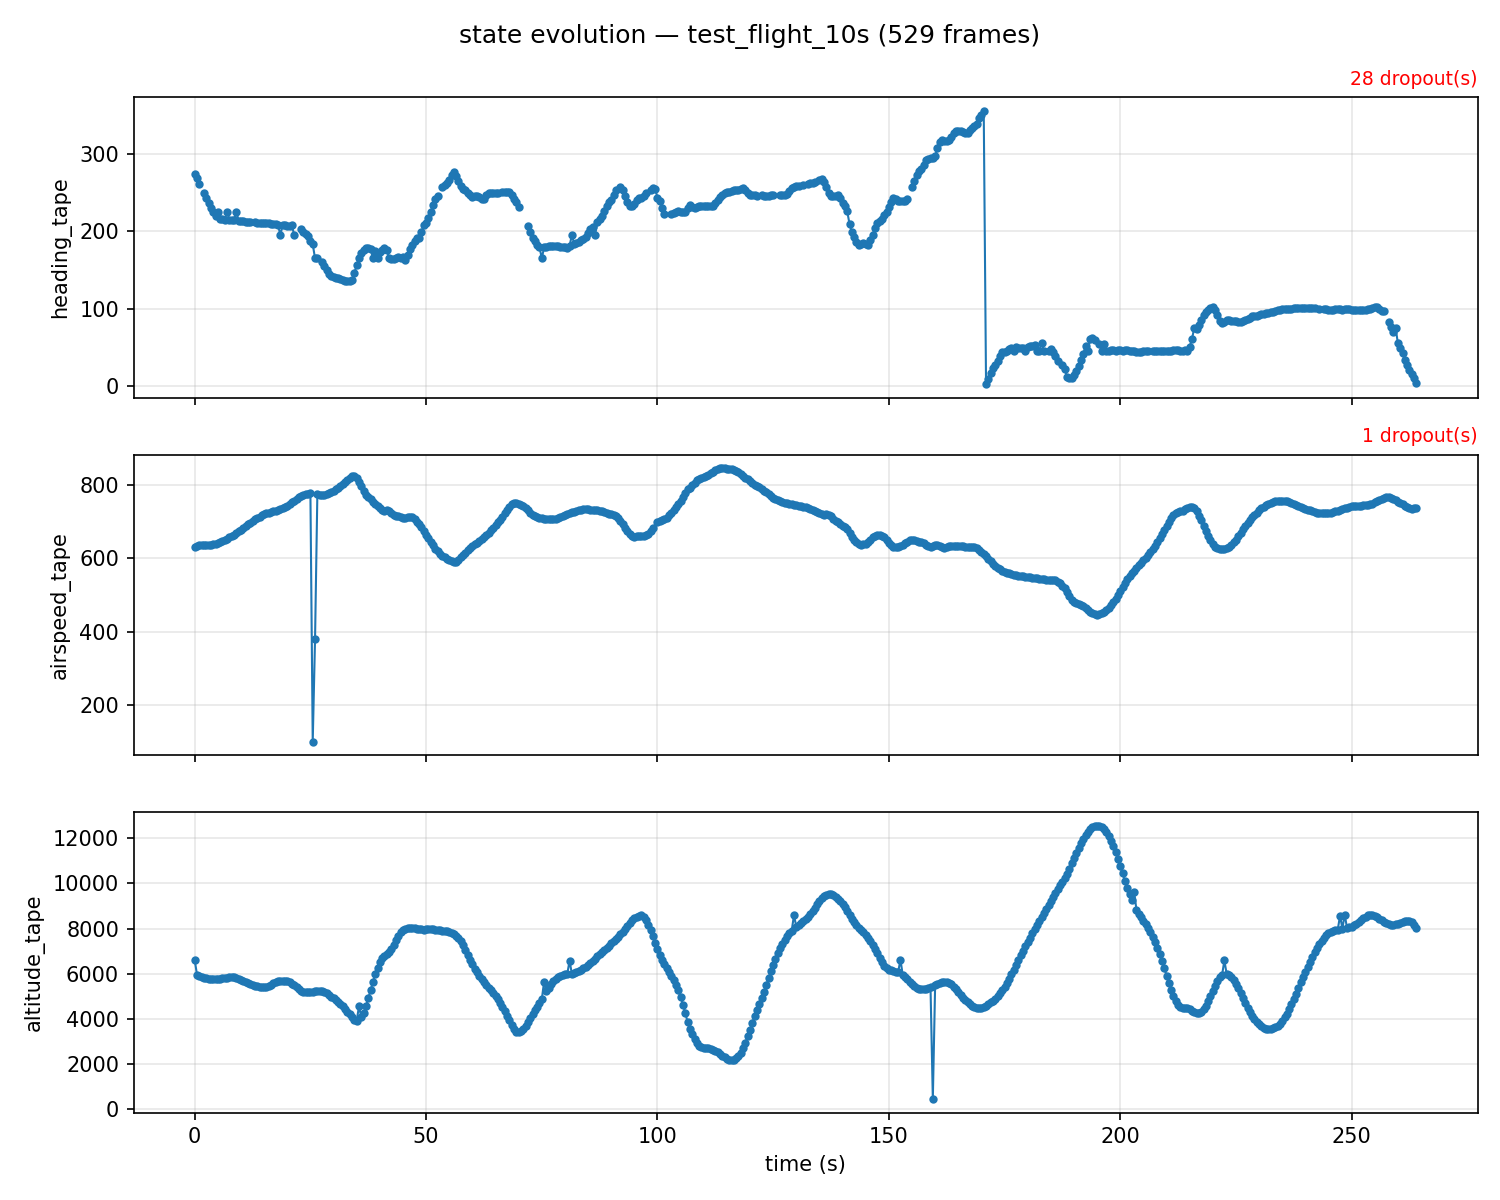
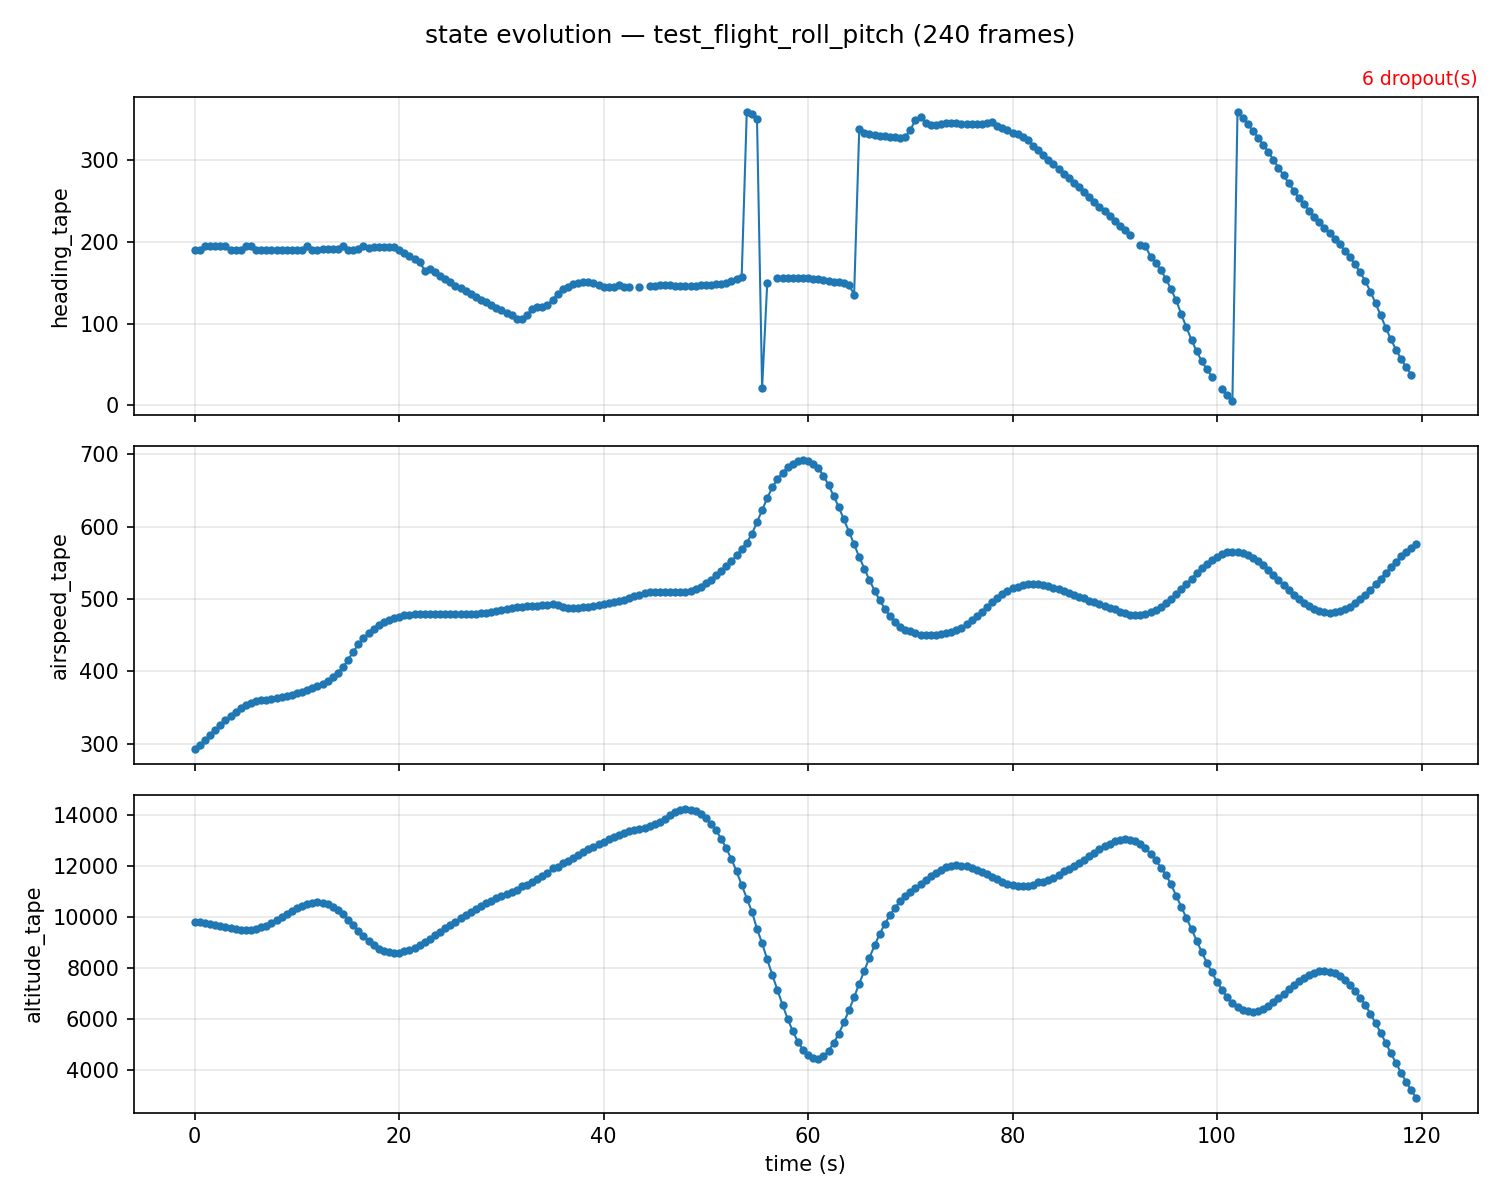
build test set roll/pitch

diff --git a/scripts/build_test_set_flight.py b/scripts/build_test_set_flight.py
@@ -38,6 +38,7 @@ from scripts.calibrate_rois import find_window, screenshot_window
 CAPTURE_HZ = 2.0
 CAPTURE_DURATION_S = 120.0
 PRE_CAPTURE_DELAY_S = 5.0
+FOLDER_NAME = 'test_flight_roll_pitch'
 
 
 def _read_key() -> str:
@@ -84,7 +85,7 @@ def main():
     print(f"window locked: {bounds}")
 
     root = get_project_root()
-    out_dir = os.path.join(root, 'data', 'screenshots', 'test_flight_heading_360')
+    out_dir = os.path.join(root, 'data', 'screenshots', FOLDER_NAME)
     os.makedirs(out_dir, exist_ok=True)
 
     print("press 'p' to start a 10s capture burst (3s delay first), 'o' to stop")

diff --git a/scripts/plot_state_evolution.py b/scripts/plot_state_evolution.py
@@ -46,8 +46,8 @@ PARSERS = {
 
 CAPTURE_HZ = 2
 # DATASET = 'test_flight_heading_360'  # default folder name, relative to data/screenshots/
-DATASET = 'test_flight_10s'  # default folder name, relative to data/screenshots/
-
+# DATASET = 'test_flight_10s'
+DATASET = 'test_flight_roll_pitch'
 
 def crop_image(img, roi: dict):
     return img[roi['y1']:roi['y2'], roi['x1']:roi['x2']]
